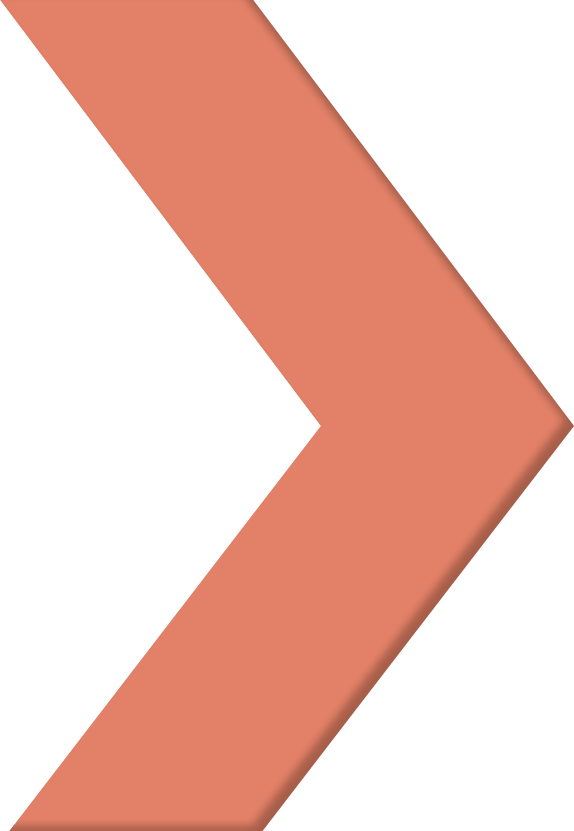
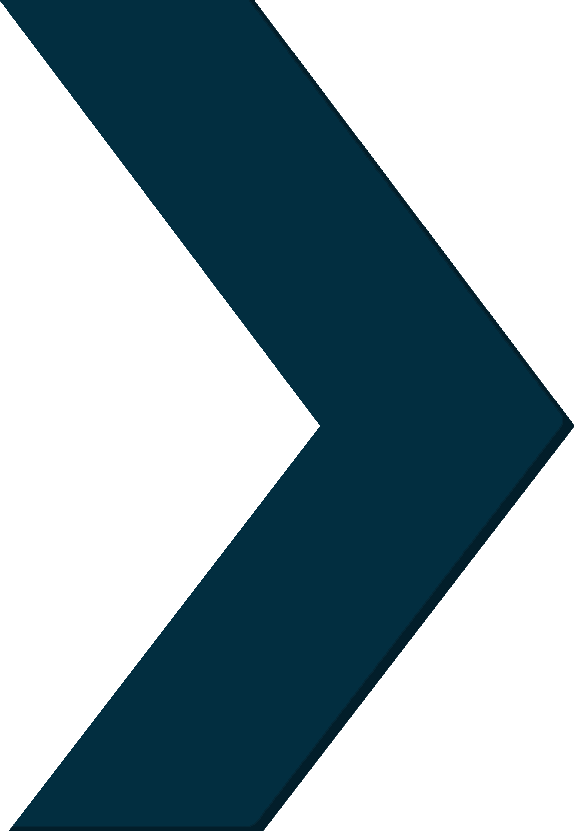
mudança de cor do site

diff --git a/website/wp-content/themes/joao_malta/style488a.css b/website/wp-content/themes/joao_malta/style488a.css
@@ -1,7 +1,7 @@
 /*
-Theme Name: JoÃ£o Malta - v2017-09
+Theme Name: HeroRicktGames 2020
 Author: Code200
-Description: Tema desenvolvido com exclusividade para JoÃ£o Malta
+Description: Tema desenvolvido com exclusividade para JoÃƒÆ’Ã†â€™Ãƒâ€šÃ‚Â£o Malta
 Version: 1.0
 */
 
@@ -35,14 +35,14 @@ section {width:100%; float:left;}
 a:active {text-decoration:none; outline:none;}
 a:hover {text-decoration:none;}
 
-#header {background: #af6754;padding-top:26px;padding-bottom:20px;transition:all 0.3s ease-in-out;}
+#header {background: #022E40;padding-top:26px;padding-bottom:20px;transition:all 0.3s ease-in-out;}
 #header.affix {position:fixed; top:0; left:0; width:100%; z-index:999; padding-top:5px; padding-bottom:5px;}
 #header.affix + section {margin-top:95px;}
 #header .logo {max-width:210px; width:100%; height:auto;}
 #header .menu {margin:15px 0 0 0; padding:0;}
 #header .menu li {margin:0; padding:0 30px; border-right:solid 2px #fff; list-style:none; display:inline-block; text-align:center; position:relative;}
 #header .menu li:last-child {border-right:none;}
-#header .menu li a {padding:0; font-size:13px; line-height:15px; color:#fff; font-family:'FuturaBQ'; text-transform:uppercase; display:block; transition:all 0.3s ease-in-out;}
+#header .menu li a {padding:0;font-size:13px;line-height:15px;color: #fff;font-family:'FuturaBQ';text-transform:uppercase;display:block;transition:all 0.3s ease-in-out;}
 #header .menu li a:active,
 #header .menu li a:focus,
 #header .menu li a:hover {color:#e18066;}
@@ -91,7 +91,7 @@ a:hover {text-decoration:none;}
 
 #b4 {background-color:#d8d8d9; background-position:top center; background-size:100% 100%; background-repeat:no-repeat; padding-top:80px; padding-bottom:60px;}
 #b4 .texto-principal {color:#fff;}
-#b4 .texto-principal h2 {font-size:50px; line-height:50px; font-family:'FuturaBQ'; margin-top:0; margin-bottom:12px; color:#565654;}
+#b4 .texto-principal h2 {font-size:50px;line-height:50px;font-family:'FuturaBQ';margin-top:0;margin-bottom:12px;color: #fffff;}
 #b4 .texto-principal hr {width:60px; border-top:solid 1px #565654; margin:0 auto 20px 0;}
 #b4 .texto-principal p {font-size:18px; line-height:22px; margin-bottom:20px; text-align:justify;}
 #b4 .texto-principal p:last-child {margin-top:40px;}
@@ -101,7 +101,7 @@ a:hover {text-decoration:none;}
 #b4 .lista li figure {margin-bottom:5px;}
 #b4 .lista li figure img {max-width:100%; max-height:50px;}
 #b4 .lista li h3 {margin-top:0; margin-bottom:0; font-size:16px; line-height:20px; font-family:'FuturaBQ'; font-weight:400; color:#fff; text-transform:uppercase;}
-#b4 .lista li h3:last-child {color:#565654;}
+#b4 .lista li h3:last-child {color: #ffff;}
 #b4 .imagem {margin-top:90px; position:relative;}
 #b4 .imagem img {position:absolute; top:0; left:0;}
 #b4 .boxes {width:100%; margin-top:40px; margin-left:-25px;}
@@ -111,7 +111,7 @@ a:hover {text-decoration:none;}
 #b4 .boxes table tr td .box:hover {box-shadow:-3px 8px 1px rgba(0,0,0,.2); background:#fff;}
 #b4 .boxes table tr td .box figure {margin-bottom:5px;}
 #b4 .boxes table tr td .box figure img {max-width:100%; max-height:50px;}
-#b4 .boxes table tr td .box h3 {margin-top:0; margin-bottom:20px; padding-left:15px; padding-right:15px; font-size:16px; line-height:20px; font-family:'FuturaBQ'; font-weight:400; color:#e18066; text-transform:uppercase;}
+#b4 .boxes table tr td .box h3 {margin-top:0;margin-bottom:20px;padding-left:15px;padding-right:15px;font-size:16px;line-height:20px;font-family:'FuturaBQ';font-weight:400;color: #034159;text-transform:uppercase;}
 #b4 .boxes table tr td .box p {color:#565654; font-size:16px; line-height:20px; margin-bottom:0;}
 #b4 .texto-final {margin-top:100px;}
 #b4 .texto-final table {width:100%;}
@@ -154,8 +154,8 @@ a:hover {text-decoration:none;}
 #b5 .planos > div:nth-child(even) .plano:hover {background:#565654;}
 #b5 .planos > div:nth-child(even) .plano:hover h2 span {background:#565654;}
 
-#b6 {background-color:#e18066; background-position:top center; background-size:100% 100%; background-repeat:no-repeat; padding-top:80px; padding-bottom:60px;}
-#b6 .texto h2 {font-size:50px; line-height:50px; font-family:'FuturaBQ'; margin-top:0; margin-bottom:12px; color:#e18066;}
+#b6 {background-color: #1C98A6;background-position:top center;background-size:100% 100%;background-repeat:no-repeat;padding-top:80px;padding-bottom:60px;}
+#b6 .texto h2 {font-size:50px;line-height:50px;font-family:'FuturaBQ';margin-top:0;margin-bottom:12px;color: #D9A036;}
 #b6 .texto hr {width:60px; border-top:solid 1px #e18066; margin:0 auto 20px 0;}
 #b6 .texto p {font-size:18px; line-height:22px; margin-bottom:20px; text-align:justify; color:#fff;}
 #b6 .itens {margin-top:20px; width:100%;}
@@ -164,10 +164,10 @@ a:hover {text-decoration:none;}
 #b6 .itens tr:first-child td:nth-child(1):before {top:50%;}
 #b6 .itens tr:last-child td:nth-child(1):before {bottom:50%;}
 #b6 .itens tr td:nth-child(1):before {position:absolute; left:50%; width:1px; top:0; bottom:0; background:#e18066; content:"";}
-#b6 .itens tr td:nth-child(1) figure {width:90px; height:90px; border:solid 1px #e18066; background:#3c3d3d; border-radius:50%; text-align:center; position:relative; z-index:2;}
+#b6 .itens tr td:nth-child(1) figure {width:90px;height:90px;border: solid 1px #D9A036;background:#3c3d3d;border-radius:50%;text-align:center;position:relative;z-index:2;}
 #b6 .itens tr td:nth-child(1) figure img {max-width:100%; max-height:70px; margin-top:12px;}
 #b6 .itens tr td:nth-child(2) {padding-left:35px;}
-#b6 .itens tr td:nth-child(2) h3 {margin-top:0; margin-bottom:10px; font-size:16px; line-height:20px; font-family:'FuturaBQ'; font-weight:400; color:#e18066;}
+#b6 .itens tr td:nth-child(2) h3 {margin-top:0;margin-bottom:10px;font-size:16px;line-height:20px;font-family:'FuturaBQ';font-weight:400;color: #D9A036;}
 #b6 .itens tr td:nth-child(2) p {font-size:16px; line-height:20px; margin-bottom:10px; text-align:justify; color:#fff;}
 #b6 .itens tr td:nth-child(2) p:last-child {margin-bottom:0;}
 
@@ -200,15 +200,15 @@ a:hover {text-decoration:none;}
 .formulario *:-ms-input-placeholder {color:#e18066;}
 .formulario *:-moz-placeholder {color:#e18066;}
 
-#b8 {padding-top:60px; padding-bottom:120px; background:#e18066;}
-#b8 h2 {font-size:40px; line-height:40px; font-family:'FuturaBQ'; margin-top:0; margin-bottom:40px; color:#565654; text-align:center;}
+#b8 {padding-top:60px;padding-bottom:120px;background: #1C98A6;}
+#b8 h2 {font-size:40px;line-height:40px;font-family:'FuturaBQ';margin-top:0;margin-bottom:40px;color: lemonchiffon;text-align:center;}
 #b8 .lista-depoimentos {position:relative;}
 #b8 .lista-depoimentos h4 {text-align:center;}
 #b8 .lista-depoimentos h4:before {background:url(img/dep-detalhe.png) no-repeat center center; display:inline-block; width:37px; height:32px; content:"";}
 #b8 .lista-depoimentos figure {width:200px; height:200px; background-color:#d8d8d9; background-size:cover; background-position:center center; background-repeat:no-repeat; margin:0 auto 25px auto; border:solid 3px #fff; border-radius:50%;}
 #b8 .lista-depoimentos p {font-size:20px; color:#ffffff; line-height:32px; margin-bottom:15px; text-transform:uppercase;}
 #b8 .lista-depoimentos p strong {font-family:'FuturaBQ'; font-weight:400;}
-#b8 .lista-depoimentos h3 {font-size:20px; color:#565654; line-height:32px; font-family:'FuturaBQ'; font-weight:400; text-transform:uppercase; margin-top:20px; margin-bottom:50px; position:relative;}
+#b8 .lista-depoimentos h3 {font-size:20px;color: lemonchiffon;line-height:32px;font-family:'FuturaBQ';font-weight:400;text-transform:uppercase;margin-top:20px;margin-bottom:50px;position:relative;}
 #b8 .lista-depoimentos h3:before {width:300px; height:30px; content:""; opacity:.3; bottom:-40px; left:50%; margin-left:-150px; position:absolute; background: -moz-radial-gradient(center, ellipse cover, rgba(0,0,0,0.4) 0%, rgba(0,0,0,0.4) 1%, rgba(0,0,0,0) 62%, rgba(0,0,0,0) 100%); background: -webkit-radial-gradient(center, ellipse cover, rgba(0,0,0,0.4) 0%,rgba(0,0,0,0.4) 1%,rgba(0,0,0,0) 62%,rgba(0,0,0,0) 100%); background: radial-gradient(ellipse at center, rgba(0,0,0,0.4) 0%,rgba(0,0,0,0.4) 1%,rgba(0,0,0,0) 62%,rgba(0,0,0,0) 100%); filter: progid:DXImageTransform.Microsoft.gradient( startColorstr='#66000000', endColorstr='#00000000',GradientType=1 );}
 .lista-depoimentos .owl-carousel .owl-controls .owl-nav .owl-prev {position:absolute; top:50%; left:0px; margin-top:-11px;}
 .lista-depoimentos .owl-carousel .owl-controls .owl-nav .owl-next {position:absolute; top:50%; right:0px; margin-top:-11px;}

diff --git a/website/index.html b/website/index.html
@@ -95,7 +95,7 @@ img.emoji {
             <div class="row">
                 <div class="col-xs-6">
                     <a href="index.html" title="João Malta">
-                        <img class="logo" src="wp-content/uploads/2017/09/logo_jm.png" alt="João Malta" />
+                        <img class="logo" src="wp-content/uploads/2017/09/logo_jm.png" alt="Logo" />
                     </a>
                 </div>
                 <div class="col-xs-6 text-right">
@@ -122,7 +122,7 @@ img.emoji {
             <div class="col-sm-9 col-md-9 text-center">
                 <div class="menu-menu-principal-container">
                     <ul id="menu-menu-principal" class="menu">
-                        <li id="menu-item-16" class="menu-item menu-item-type-custom menu-item-object-custom menu-item-16"><a href="index.html">HOMEPAGE</a></li>
+                        <li id="menu-item-16" class="menu-item menu-item-type-custom menu-item-object-custom menu-item-16"><a href="index.html">HOME</a></li>
                         <li id="menu-item-17" class="menu-item menu-item-type-custom menu-item-object-custom menu-item-17"><a href="#b2">SOBRE</a></li>
                         <li id="menu-item-18" class="menu-item menu-item-type-custom menu-item-object-custom menu-item-18"><a href="#b4">TREINAMENTO</a></li>
                         <li id="menu-item-19" class="menu-item menu-item-type-custom menu-item-object-custom menu-item-19"><a href="BlogPage/blogpag1.html">BLOG</a></li>
@@ -295,7 +295,7 @@ jsFileLocation:"//joaomalta.com.br/wp-content/plugins/revslider/public/assets/js
                 <div class="row">
                     <div class="col-sm-5 col-sm-offset-0 col-md-5 col-md-offset-1 col-lg-4 col-lg-offset-0 texto-esquerda">
                         <div class="row">
-                            <h2><span style="color: #565654;">Bruno</span><br /><span style="color: #e18066;">Peretti</span></h2>
+                            <h2><span style="color: #F28705;">Bruno</span><br /><span style="color: #F28705;">Peretti</span></h2>
                             <p><span style="color: #e18066;">Personal Trainer </span><br /><span style="color: #e18066;"></span></p>
                             <hr />
                             <h4><span style="color: #5c5a5a;"><strong>EU VOU TE MOSTRAR </strong></span><br /><span style="color: #5c5a5a;"><strong>A VERDADEIRA FORÇA QUE RESIDE DENTRO DE VOCÊ! E TE IMPEDE DE CONSEGUIR OS SEUS OBJETIVOS!</strong></span><br /><span style="color: #5c5a5a;"><strong>VAMOS NESSA?</strong></span></h4>
@@ -309,12 +309,13 @@ jsFileLocation:"//joaomalta.com.br/wp-content/plugins/revslider/public/assets/js
                 </div>
             </div>
             <div class="col-md-12 col-lg-5 texto-direita">
-                <h2><span style="color: #e18066;">APRENDA COM QUEM JÁ PASSOU POR ISSO...</span></h2>
+                <h2><span style="color: #F28705;">APRENDA COM QUEM JÁ PASSOU POR ISSO...</span></h2>
                 <hr />
-                <p>Eu Bruno Peretti, já fui obeso mórbido, já pesei 176kg e tentei de tudo antes de desenvolver minha própria</p>
-                <p>metodologia, para isso, fui buscar mais conhecimento teórico e prático em uma das mais renomadas</p>
-                <p>Universidade do Mundo a Universidade de São Paulo (USP), e trouxe diversas técnicas diferenciadas de treinos para perda de gordura corporal e ganho de massa muscular.</p>
-                <h3>QUEM<br />SOU <span style="color: #e18066;">EU?</span><br /></h3>
+                <p>
+				Eu Bruno Peretti, já fui obeso mórbido, já pesei 176kg e tentei de tudo antes de desenvolver minha própria metodologia, para isso, fui buscar mais conhecimento teórico e prático em uma das mais renomadas
+				Universidade do Mundo a Universidade de São Paulo (USP), e trouxe diversas técnicas diferenciadas de treinos para perda de gordura corporal e ganho de massa muscular.
+				</p>
+                <h3>QUEM<br />SOU <span style="color: #F28705;">EU?</span><br /></h3>
                 <p>Sou Personal Trainer e Coach especializado em pessoas acima dos 30 anos, <strong>com dificuldade de Emagrecer e Cuidar da Saúde. Acerte no ☺🎯 Bora ??</strong></p>
             </div>
         </div>
@@ -324,7 +325,7 @@ jsFileLocation:"//joaomalta.com.br/wp-content/plugins/revslider/public/assets/js
         <div class="container base">
             <div class="col-sm-12 col-sm-offset-0 col-md-10 col-md-offset-1 col-lg-8 col-lg-offset-2 text-center">
                 <p><img src="wp-content/themes/joao_malta/img/b3-detalhe.png" /></p>
-                <p>O processo por mim elaborado, é ideal para quem está disposto a assumir as rédeas de sua vida, e dar um novo trajeto em. <br />todos os aspectos dela, assumindo a responsabilidade na busca por resultados e realizações. O método SMART também é.</strong> recomendado para aprimorar e ampliar capacidades pessoais e profissionais.</p>
+                <p>O processo por mim elaborado, é ideal para quem está disposto a assumir as rédeas de sua vida, e dar um novo trajeto em todos os aspectos dela, assumindo a responsabilidade na busca por resultados e realizações. O método SMART também é recomendado para aprimorar e ampliar capacidades pessoais e profissionais.</p>
             </div>
         </div>
     </section>
@@ -426,9 +427,7 @@ jsFileLocation:"//joaomalta.com.br/wp-content/plugins/revslider/public/assets/js
                         <div class="texto">
                             <h2>ESSE PROGRAMA FOI DESENVOLVIDO POR UM EX-OBESO, E AS PESSOAS COMUNS QUE JA TENTARAM E NÃO CONSEGUIRAM?</h2>
                             <hr />
-                            <p>Eu montei esse programa de emagrecimento e ganho de massa muscular que</p>
-                            <p>fará você reprogramar sua forma de pensar o emagrecimento e a sua condição</p>
-                            <p>de saúde.</p>
+                            <p>Eu montei esse programa de emagrecimento e ganho de massa muscular que fará você reprogramar sua forma de pensar o emagrecimento e a sua condição de saúde.</p>
                         </div>
                         <table class="itens">
                             <tbody>
@@ -437,15 +436,13 @@ jsFileLocation:"//joaomalta.com.br/wp-content/plugins/revslider/public/assets/js
                                         <figure><img src="wp-content/uploads/2017/09/b6-ico-1.png" /></figure>
                                     </td>
                                     <td>
-                                        <h3>iNICIANTE</h3>
-                                        <p>As primeiras 3 semanas serão de adaptação do seu corpo para os próximos níveis e você já sentirá</p>
-                                        <p>melhora no condicionamento. Todos os treinos são para você que está sem praticar atividade física há um certo</p>
-                                        <p>tempo ou já pratica e quer acelerar os seus resultados</p>
+                                        <h3>INICIANTE</h3>
+                                        <p>As primeiras 3 semanas serão de adaptação do seu corpo para os próximos níveis e você já sentirá melhora no condicionamento. Todos os treinos são para você que está sem praticar atividade física há um certo tempo ou já pratica e quer acelerar os seus resultados</p>
                                     </td>
                                 </tr>
                                 <tr>
                                     <td>
-                                        <figure><img src="wp-content/uploads/2017/09/b6-ico-2.svg" /></figure>
+                                        <figure><img src="wp-content/uploads/2017/09/b6-ico-2.png" /></figure>
                                     </td>
                                     <td>
                                         <h3>INTERMEDIÁRIO</h3>
@@ -541,7 +538,7 @@ var wpcf7 = {"apiSettings":{"root":"http:\/\/joaomalta.com.br\/wp-json\/contact-
 
 
         </section>
-        <section id="footer" style="background-image:url(http://joaomalta.com.br/wp-content/uploads/2017/09/bg-rodape.png);">
+        <section id="footer" style="background-image:url(http://herorickystudiosdownloads.000webhostapp.com/img/bg-rodape.png);">
             <div class="container">
                 <div class="text-xs-center col-md-3 text-md-left col-lg-4">
                     <img class="logo" src="wp-content\uploads\2017\09/logo_jm.png" alt="Bruno Perrety" />
